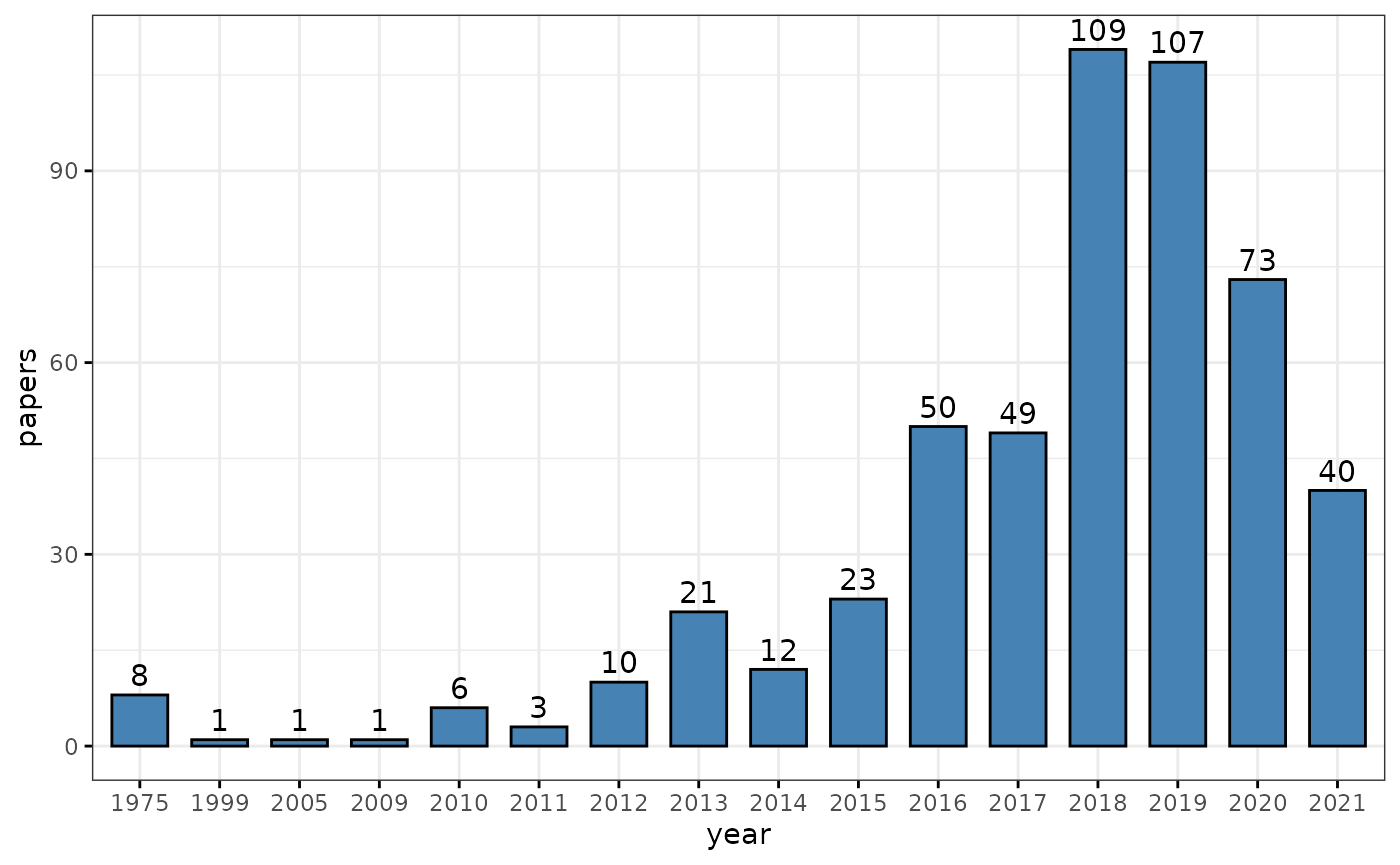
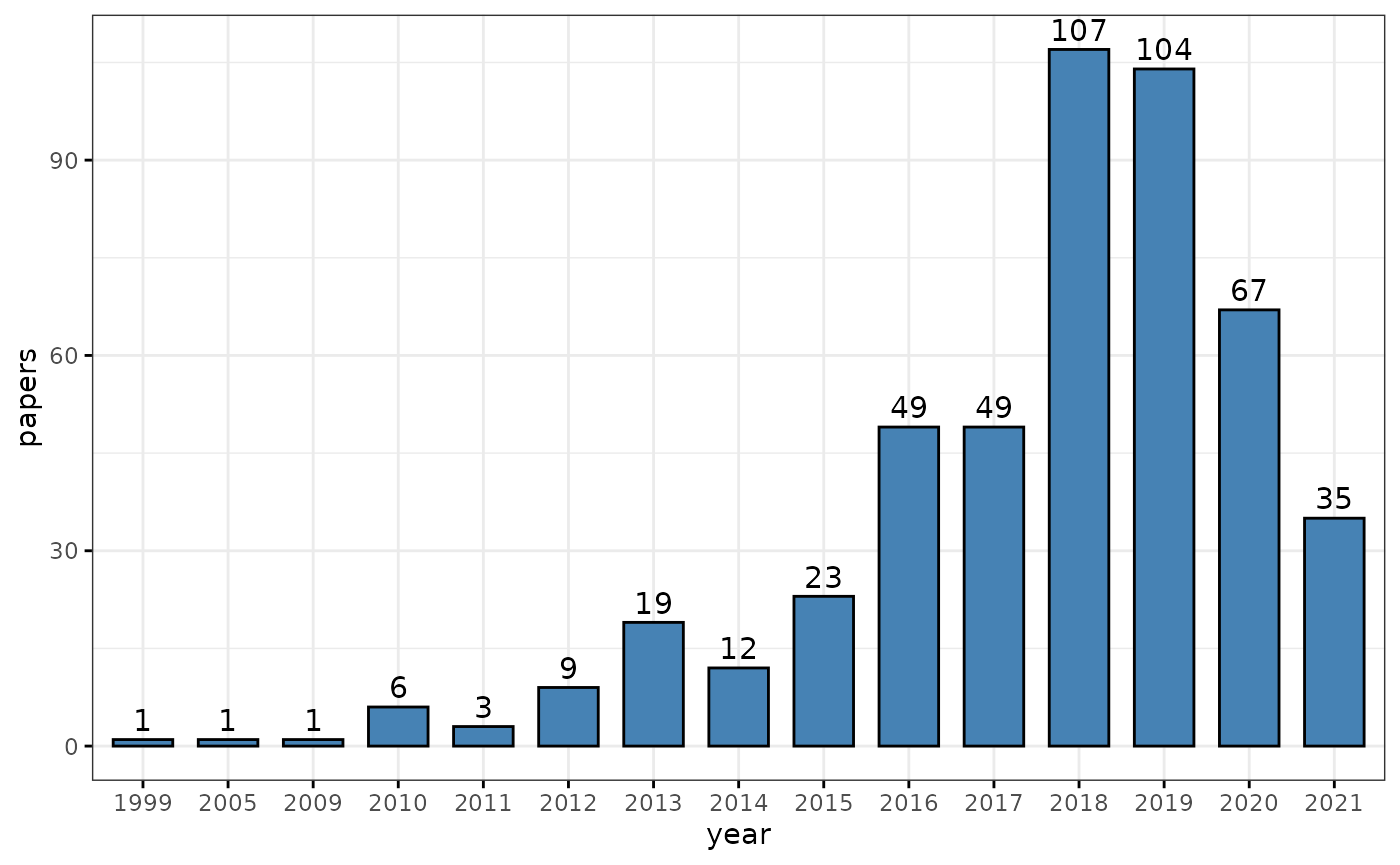
Deploying to gh-pages from  @ d2aab66eb1f398ca9826e9cbe9abbd49b88cd80a 🚀

diff --git a/articles/BugSigDBStats.html b/articles/BugSigDBStats.html
@@ -63,7 +63,7 @@
     <div class="page-header toc-ignore">
       <h1 data-toc-skip></h1>
             
-            <h4 class="date">September 12, 2021</h4>
+            <h4 class="date">September 20, 2021</h4>
       
       <small class="dont-index">Source: <a href="https://github.com/waldronlab/BugSigDBStats/blob/master/vignettes/BugSigDBStats.Rmd"><code>vignettes/BugSigDBStats.Rmd</code></a></small>
       <div class="hidden name"><code>BugSigDBStats.Rmd</code></div>
@@ -86,10 +86,10 @@
 <p>Get bulk export from bugsigdb.org:</p>
 <div class="sourceCode" id="cb2"><pre class="downlit sourceCode r">
 <code class="sourceCode R"><span class="va">full.dat</span> <span class="op">&lt;-</span> <span class="fu">bugsigdbr</span><span class="fu">::</span><span class="fu"><a href="https://rdrr.io/pkg/bugsigdbr/man/importBugSigDB.html">importBugSigDB</a></span><span class="op">(</span><span class="op">)</span></code></pre></div>
-<pre><code>## Using cached version from 2021-09-12 05:06:33</code></pre>
+<pre><code>## Using cached version from 2021-09-20 00:22:23</code></pre>
 <div class="sourceCode" id="cb4"><pre class="downlit sourceCode r">
 <code class="sourceCode R"><span class="fu"><a href="https://rdrr.io/r/base/dim.html">dim</a></span><span class="op">(</span><span class="va">full.dat</span><span class="op">)</span></code></pre></div>
-<pre><code>## [1] 2123   48</code></pre>
+<pre><code>## [1] 1992   48</code></pre>
 <div class="sourceCode" id="cb6"><pre class="downlit sourceCode r">
 <code class="sourceCode R"><span class="fu"><a href="https://rdrr.io/r/base/colnames.html">colnames</a></span><span class="op">(</span><span class="va">full.dat</span><span class="op">)</span></code></pre></div>
 <pre><code>##  [1] "Study"                      "Study design"              
@@ -110,26 +110,31 @@
 ## [31] "Confounders controlled for" "Pielou"                    
 ## [33] "Shannon"                    "Chao1"                     
 ## [35] "Simpson"                    "Inverse Simpson"           
-## [37] "Richness"                   "State"                     
-## [39] "Reviewer"                   "Signature page name"       
-## [41] "Source"                     "Curated date"              
-## [43] "Curator"                    "Revision editor"           
-## [45] "Description"                "Abundance in Group 1"      
-## [47] "MetaPhlAn taxon names"      "NCBI Taxonomy IDs"</code></pre>
+## [37] "Richness"                   "Signature page name"       
+## [39] "Source"                     "Curated date"              
+## [41] "Curator"                    "Revision editor"           
+## [43] "Description"                "Abundance in Group 1"      
+## [45] "MetaPhlAn taxon names"      "NCBI Taxonomy IDs"         
+## [47] "State"                      "Reviewer"</code></pre>
+<p>Stripping illformed entries:</p>
+<div class="sourceCode" id="cb8"><pre class="downlit sourceCode r">
+<code class="sourceCode R"><span class="va">is.study</span> <span class="op">&lt;-</span> <span class="fu"><a href="https://rdrr.io/r/base/grep.html">grepl</a></span><span class="op">(</span><span class="st">"^Study [0-9]+$"</span>, <span class="va">full.dat</span><span class="op">[[</span><span class="st">"Study"</span><span class="op">]</span><span class="op">]</span><span class="op">)</span>
+<span class="va">is.exp</span> <span class="op">&lt;-</span> <span class="fu"><a href="https://rdrr.io/r/base/grep.html">grepl</a></span><span class="op">(</span><span class="st">"^Experiment [0-9]+$"</span>, <span class="va">full.dat</span><span class="op">[[</span><span class="st">"Experiment"</span><span class="op">]</span><span class="op">]</span><span class="op">)</span>
+<span class="va">full.dat</span> <span class="op">&lt;-</span> <span class="va">full.dat</span><span class="op">[</span><span class="va">is.study</span> <span class="op">&amp;</span> <span class="va">is.exp</span>, <span class="op">]</span></code></pre></div>
 </div>
 <div id="curation-output" class="section level1">
 <h1 class="hasAnchor">
 <a href="#curation-output" class="anchor"></a>Curation output</h1>
 <p>Number of papers and signatures curated:</p>
-<div class="sourceCode" id="cb8"><pre class="downlit sourceCode r">
+<div class="sourceCode" id="cb9"><pre class="downlit sourceCode r">
 <code class="sourceCode R"><span class="va">pmids</span> <span class="op">&lt;-</span> <span class="fu"><a href="https://rdrr.io/r/base/unique.html">unique</a></span><span class="op">(</span><span class="va">full.dat</span><span class="op">[</span>,<span class="st">"PMID"</span><span class="op">]</span><span class="op">)</span>
 <span class="fu"><a href="https://rdrr.io/r/base/length.html">length</a></span><span class="op">(</span><span class="va">pmids</span><span class="op">)</span></code></pre></div>
-<pre><code>## [1] 522</code></pre>
-<div class="sourceCode" id="cb10"><pre class="downlit sourceCode r">
+<pre><code>## [1] 494</code></pre>
+<div class="sourceCode" id="cb11"><pre class="downlit sourceCode r">
 <code class="sourceCode R"><span class="fu"><a href="https://rdrr.io/r/base/nrow.html">nrow</a></span><span class="op">(</span><span class="va">full.dat</span><span class="op">)</span></code></pre></div>
-<pre><code>## [1] 2123</code></pre>
+<pre><code>## [1] 1992</code></pre>
 <p>Publication date of the curated papers:</p>
-<div class="sourceCode" id="cb12"><pre class="downlit sourceCode r">
+<div class="sourceCode" id="cb13"><pre class="downlit sourceCode r">
 <code class="sourceCode R"><span class="va">pmids</span> <span class="op">&lt;-</span> <span class="va">pmids</span><span class="op">[</span><span class="op">!</span><span class="fu"><a href="https://rdrr.io/r/base/NA.html">is.na</a></span><span class="op">(</span><span class="va">pmids</span><span class="op">)</span><span class="op">]</span>
 <span class="va">pubyear1</span> <span class="op">&lt;-</span> <span class="fu"><a href="../reference/pmid2pubyear.html">pmid2pubyear</a></span><span class="op">(</span><span class="va">pmids</span><span class="op">[</span><span class="fl">1</span><span class="op">:</span><span class="fl">361</span><span class="op">]</span><span class="op">)</span>
 <span class="va">pubyear2</span> <span class="op">&lt;-</span> <span class="fu"><a href="../reference/pmid2pubyear.html">pmid2pubyear</a></span><span class="op">(</span><span class="va">pmids</span><span class="op">[</span><span class="fl">362</span><span class="op">:</span><span class="fu"><a href="https://rdrr.io/r/base/length.html">length</a></span><span class="op">(</span><span class="va">pmids</span><span class="op">)</span><span class="op">]</span><span class="op">)</span>
@@ -142,56 +147,56 @@
 ## [4,] "27625705" "2016" 
 ## [5,] "23071781" "2012" 
 ## [6,] "28467925" "2017"</code></pre>
-<div class="sourceCode" id="cb14"><pre class="downlit sourceCode r">
+<div class="sourceCode" id="cb15"><pre class="downlit sourceCode r">
 <code class="sourceCode R"><span class="va">tab</span> <span class="op">&lt;-</span> <span class="fu"><a href="https://rdrr.io/r/base/table.html">table</a></span><span class="op">(</span><span class="va">pubyear</span><span class="op">)</span>
 <span class="va">tab</span> <span class="op">&lt;-</span> <span class="va">tab</span><span class="op">[</span><span class="op">-</span><span class="fu"><a href="https://rdrr.io/r/base/length.html">length</a></span><span class="op">(</span><span class="va">tab</span><span class="op">)</span><span class="op">]</span>
 <span class="va">tab</span> <span class="op">&lt;-</span> <span class="va">tab</span><span class="op">[</span><span class="fu"><a href="https://rdrr.io/r/base/order.html">order</a></span><span class="op">(</span><span class="fu"><a href="https://rdrr.io/r/base/integer.html">as.integer</a></span><span class="op">(</span><span class="fu"><a href="https://rdrr.io/r/base/names.html">names</a></span><span class="op">(</span><span class="va">tab</span><span class="op">)</span><span class="op">)</span><span class="op">)</span><span class="op">]</span>
 <span class="va">df</span> <span class="op">&lt;-</span> <span class="fu"><a href="https://rdrr.io/r/base/data.frame.html">data.frame</a></span><span class="op">(</span>year <span class="op">=</span> <span class="fu"><a href="https://rdrr.io/r/base/names.html">names</a></span><span class="op">(</span><span class="va">tab</span><span class="op">)</span>, papers <span class="op">=</span> <span class="fu"><a href="https://rdrr.io/r/base/integer.html">as.integer</a></span><span class="op">(</span><span class="va">tab</span><span class="op">)</span><span class="op">)</span>
-<span class="fu"><a href="https://rdrr.io/pkg/ggpubr/man/ggbarplot.html">ggbarplot</a></span><span class="op">(</span><span class="va">df</span>, x <span class="op">=</span> <span class="st">"year"</span>, y <span class="op">=</span> <span class="st">"papers"</span>, 
+<span class="fu"><a href="https://rpkgs.datanovia.com/ggpubr/reference/ggbarplot.html">ggbarplot</a></span><span class="op">(</span><span class="va">df</span>, x <span class="op">=</span> <span class="st">"year"</span>, y <span class="op">=</span> <span class="st">"papers"</span>, 
           label <span class="op">=</span> <span class="cn">TRUE</span>, fill <span class="op">=</span> <span class="st">"steelblue"</span>,
           ggtheme <span class="op">=</span> <span class="fu">theme_bw</span><span class="op">(</span><span class="op">)</span><span class="op">)</span></code></pre></div>
 <p><img src="BugSigDBStats_files/figure-html/pubDate2-1.png" width="700"></p>
 <p>Stripping empty signatures:</p>
-<div class="sourceCode" id="cb15"><pre class="downlit sourceCode r">
-<code class="sourceCode R"><span class="co"># contains empty UP / DOWN rows</span>
-<span class="co"># more realistic estimation of number of signatures curated</span>
-<span class="va">dat</span> <span class="op">&lt;-</span> <span class="fu"><a href="../reference/stripEmptySignatures.html">stripEmptySignatures</a></span><span class="op">(</span><span class="va">full.dat</span><span class="op">)</span>
+<div class="sourceCode" id="cb16"><pre class="downlit sourceCode r">
+<code class="sourceCode R"><span class="va">ind1</span> <span class="op">&lt;-</span> <span class="fu"><a href="https://rdrr.io/r/base/lengths.html">lengths</a></span><span class="op">(</span><span class="va">full.dat</span><span class="op">[[</span><span class="st">"MetaPhlAn taxon names"</span><span class="op">]</span><span class="op">]</span><span class="op">)</span> <span class="op">&gt;</span> <span class="fl">0</span>
+<span class="va">ind2</span> <span class="op">&lt;-</span> <span class="fu"><a href="https://rdrr.io/r/base/lengths.html">lengths</a></span><span class="op">(</span><span class="va">full.dat</span><span class="op">[[</span><span class="st">"NCBI Taxonomy IDs"</span><span class="op">]</span><span class="op">]</span><span class="op">)</span> <span class="op">&gt;</span> <span class="fl">0</span>
+<span class="va">dat</span> <span class="op">&lt;-</span> <span class="va">full.dat</span><span class="op">[</span><span class="va">ind1</span> <span class="op">&amp;</span> <span class="va">ind2</span>,<span class="op">]</span>
 <span class="fu"><a href="https://rdrr.io/r/base/nrow.html">nrow</a></span><span class="op">(</span><span class="va">dat</span><span class="op">)</span></code></pre></div>
-<pre><code>## [1] 1970</code></pre>
+<pre><code>## [1] 1992</code></pre>
 <p>Papers containing only empty UP and DOWN signatures (under curation?):</p>
-<div class="sourceCode" id="cb17"><pre class="downlit sourceCode r">
+<div class="sourceCode" id="cb18"><pre class="downlit sourceCode r">
 <code class="sourceCode R"><span class="fu"><a href="https://rdrr.io/r/base/sets.html">setdiff</a></span><span class="op">(</span><span class="va">pmids</span>, <span class="fu"><a href="https://rdrr.io/r/base/unique.html">unique</a></span><span class="op">(</span><span class="va">dat</span><span class="op">[</span>,<span class="st">"PMID"</span><span class="op">]</span><span class="op">)</span><span class="op">)</span></code></pre></div>
-<pre><code>##  [1] 32295867 32937864 32415070 25784074       47       20        7 32728349
-##  [9] 33903709 33851179 33833065       48       24       37       14 33603076
-## [17] 33663411       30 19903265 31917273 22986438 22356587 30714619 32978483
-## [25] 29462324 31887116 29617710</code></pre>
+<pre><code>## numeric(0)</code></pre>
 <p>Progress over time:</p>
-<div class="sourceCode" id="cb19"><pre class="downlit sourceCode r">
+<div class="sourceCode" id="cb20"><pre class="downlit sourceCode r">
 <code class="sourceCode R"><span class="va">dat</span><span class="op">[</span>,<span class="st">"Curated date"</span><span class="op">]</span> <span class="op">&lt;-</span> <span class="fu"><a href="https://rdrr.io/r/base/character.html">as.character</a></span><span class="op">(</span><span class="fu">lubridate</span><span class="fu">::</span><span class="fu"><a href="http://lubridate.tidyverse.org/reference/ymd.html">dmy</a></span><span class="op">(</span><span class="va">dat</span><span class="op">[</span>,<span class="st">"Curated date"</span><span class="op">]</span><span class="op">)</span><span class="op">)</span>
 <span class="fu"><a href="../reference/plotProgressOverTime.html">plotProgressOverTime</a></span><span class="op">(</span><span class="va">dat</span><span class="op">)</span></code></pre></div>
-<p><img src="BugSigDBStats_files/figure-html/unnamed-chunk-3-1.png" width="960"></p>
-<div class="sourceCode" id="cb20"><pre class="downlit sourceCode r">
-<code class="sourceCode R"><span class="fu"><a href="../reference/plotProgressOverTime.html">plotProgressOverTime</a></span><span class="op">(</span><span class="va">dat</span>, diff <span class="op">=</span> <span class="cn">TRUE</span><span class="op">)</span></code></pre></div>
-<p><img src="BugSigDBStats_files/figure-html/unnamed-chunk-3-2.png" width="960"></p>
-<p>Stratified by curator:</p>
+<p><img src="BugSigDBStats_files/figure-html/unnamed-chunk-4-1.png" width="960"></p>
 <div class="sourceCode" id="cb21"><pre class="downlit sourceCode r">
+<code class="sourceCode R"><span class="fu"><a href="../reference/plotProgressOverTime.html">plotProgressOverTime</a></span><span class="op">(</span><span class="va">dat</span>, diff <span class="op">=</span> <span class="cn">TRUE</span><span class="op">)</span></code></pre></div>
+<p><img src="BugSigDBStats_files/figure-html/unnamed-chunk-4-2.png" width="960"></p>
+<p>Stratified by curator:</p>
+<div class="sourceCode" id="cb22"><pre class="downlit sourceCode r">
 <code class="sourceCode R"><span class="va">npc</span> <span class="op">&lt;-</span> <span class="fu"><a href="../reference/stratifyByCurator.html">stratifyByCurator</a></span><span class="op">(</span><span class="va">dat</span><span class="op">)</span>
 <span class="fu"><a href="../reference/plotCuratorStats.html">plotCuratorStats</a></span><span class="op">(</span><span class="va">dat</span>, <span class="va">npc</span><span class="op">)</span></code></pre></div>
 <p><img src="BugSigDBStats_files/figure-html/curatorOutput-1.png" width="960"></p>
-<p>Number of revised signatures:</p>
-<div class="sourceCode" id="cb22"><pre class="downlit sourceCode r">
+<p>Number of complete and revised signatures:</p>
+<div class="sourceCode" id="cb23"><pre class="downlit sourceCode r">
+<code class="sourceCode R"><span class="fu"><a href="https://rdrr.io/r/base/table.html">table</a></span><span class="op">(</span><span class="va">df</span><span class="op">[[</span><span class="st">"State"</span><span class="op">]</span><span class="op">]</span><span class="op">)</span></code></pre></div>
+<pre><code>## &lt; table of extent 0 &gt;</code></pre>
+<div class="sourceCode" id="cb25"><pre class="downlit sourceCode r">
 <code class="sourceCode R"><span class="fu"><a href="https://rdrr.io/r/base/table.html">table</a></span><span class="op">(</span><span class="va">dat</span><span class="op">[</span>,<span class="st">"Revision editor"</span><span class="op">]</span><span class="op">)</span></code></pre></div>
 <pre><code>## 
 ##                                      Chloe 
-##                                          2 
+##                                          1 
 ##                         Chloe,Claregrieve1 
 ##                                          2 
 ##                               Claregrieve1 
-##                                        123 
+##                                        113 
 ##                        Claregrieve1,Fatima 
 ##                                          5 
 ##                           Cynthia Anderson 
-##                                         33 
+##                                         21 
 ## Cynthia Anderson,LGeistlinger,WikiWorks743 
 ##                                          2 
 ##     Cynthia Anderson,Lwaldron,WikiWorks743 
@@ -215,50 +220,87 @@
 ##                             Fatima,Yu Wang 
 ##                                          6 
 ##                                       Gina 
-##                                          3 
+##                                          4 
 ##                                Itslanapark 
-##                                         20 
+##                                         21 
 ##                                  Kwekuamoo 
-##                                         23 
+##                                         37 
 ##                     Kwekuamoo,WikiWorks743 
 ##                                          1 
 ##                              Lorakasselman 
-##                                          1 
+##                                          2 
 ##                                   Lwaldron 
 ##                                          7 
 ##                     Lwaldron,Madhubani Dey 
 ##                                          1 
 ##                      Lwaldron,WikiWorks743 
-##                                         27 
+##                                         29 
 ##                              Madhubani Dey 
 ##                                         44 
 ##                                    Manuela 
 ##                                         11 
 ##                                Samara.Khan 
-##                                         37 
+##                                         43 
 ##                                     Tislam 
-##                                         17 
+##                                         12 
 ##                                  Valentina 
 ##                                          2 
 ##        WikiWorks,WikiWorks743,WikiWorks753 
 ##                                          1 
 ##                               WikiWorks743 
-##                                       1531 
+##                                       1556 
 ##                  WikiWorks743,WikiWorks753 
 ##                                          1</code></pre>
-<div id="distances-between-signatures" class="section level2">
+</div>
+<div id="signature-stats" class="section level1">
+<h1 class="hasAnchor">
+<a href="#signature-stats" class="anchor"></a>Signature stats</h1>
+<div class="sourceCode" id="cb27"><pre class="downlit sourceCode r">
+<code class="sourceCode R"><span class="va">sigs</span> <span class="op">&lt;-</span> <span class="fu">bugsigdbr</span><span class="fu">::</span><span class="fu"><a href="https://rdrr.io/pkg/bugsigdbr/man/getSignatures.html">getSignatures</a></span><span class="op">(</span><span class="va">dat</span>, tax.id.type <span class="op">=</span> <span class="st">"metaphlan"</span><span class="op">)</span></code></pre></div>
+<div id="unique-microbes" class="section level2">
 <h2 class="hasAnchor">
-<a href="#distances-between-signatures" class="anchor"></a>Distances between signatures</h2>
+<a href="#unique-microbes" class="anchor"></a>Unique microbes</h2>
+<p>Number unique microbes contained in the signatures:</p>
+<div class="sourceCode" id="cb28"><pre class="downlit sourceCode r">
+<code class="sourceCode R"><span class="op">(</span><span class="va">nuniq</span> <span class="op">&lt;-</span> <span class="fu"><a href="https://rdrr.io/r/base/length.html">length</a></span><span class="op">(</span><span class="fu"><a href="https://rdrr.io/r/base/unique.html">unique</a></span><span class="op">(</span><span class="fu"><a href="https://rdrr.io/r/base/unlist.html">unlist</a></span><span class="op">(</span><span class="va">sigs</span><span class="op">)</span><span class="op">)</span><span class="op">)</span><span class="op">)</span></code></pre></div>
+<pre><code>## [1] 1776</code></pre>
+<p>Development of unique microbes captured over time:</p>
+<div class="sourceCode" id="cb30"><pre class="downlit sourceCode r">
+<code class="sourceCode R"><span class="fu"><a href="../reference/plotUniqueMicrobesOverTime.html">plotUniqueMicrobesOverTime</a></span><span class="op">(</span><span class="va">dat</span><span class="op">)</span></code></pre></div>
+<p><img src="BugSigDBStats_files/figure-html/unnamed-chunk-7-1.png" width="700"></p>
+</div>
+<div id="microbe-set-size-distribution" class="section level2">
+<h2 class="hasAnchor">
+<a href="#microbe-set-size-distribution" class="anchor"></a>Microbe set size distribution</h2>
+<div class="sourceCode" id="cb31"><pre class="downlit sourceCode r">
+<code class="sourceCode R"><span class="fu"><a href="https://rdrr.io/r/base/summary.html">summary</a></span><span class="op">(</span><span class="fu"><a href="https://rdrr.io/r/base/lengths.html">lengths</a></span><span class="op">(</span><span class="va">sigs</span><span class="op">)</span><span class="op">)</span></code></pre></div>
+<pre><code>##    Min. 1st Qu.  Median    Mean 3rd Qu.    Max. 
+##   1.000   2.000   4.000   6.812   8.250 100.000</code></pre>
+<div class="sourceCode" id="cb33"><pre class="downlit sourceCode r">
+<code class="sourceCode R"><span class="fu"><a href="https://rpkgs.datanovia.com/ggpubr/reference/gghistogram.html">gghistogram</a></span><span class="op">(</span><span class="fu"><a href="https://rdrr.io/r/base/lengths.html">lengths</a></span><span class="op">(</span><span class="va">sigs</span><span class="op">)</span>, bins <span class="op">=</span> <span class="fl">30</span>, ylab <span class="op">=</span> <span class="st">"number of signatures"</span>,
+    xlab <span class="op">=</span> <span class="st">"signature size"</span>, fill <span class="op">=</span> <span class="st">"#00AFBB"</span>, ggtheme <span class="op">=</span> <span class="fu">theme_bw</span><span class="op">(</span><span class="op">)</span><span class="op">)</span></code></pre></div>
+<p><img src="BugSigDBStats_files/figure-html/setSize-1.png" width="700"></p>
+<div class="sourceCode" id="cb34"><pre class="downlit sourceCode r">
+<code class="sourceCode R"><span class="fu"><a href="https://rdrr.io/r/base/sum.html">sum</a></span><span class="op">(</span><span class="fu"><a href="https://rdrr.io/r/base/lengths.html">lengths</a></span><span class="op">(</span><span class="va">sigs</span><span class="op">)</span> <span class="op">&gt;</span> <span class="fl">4</span><span class="op">)</span></code></pre></div>
+<pre><code>## [1] 889</code></pre>
+</div>
+<div id="signature-similarity" class="section level2">
+<h2 class="hasAnchor">
+<a href="#signature-similarity" class="anchor"></a>Signature similarity</h2>
+<div id="jaccard-index" class="section level3">
+<h3 class="hasAnchor">
+<a href="#jaccard-index" class="anchor"></a>Jaccard index</h3>
 <p>The <code>calcPairwiseOverlaps</code> function works quickly on all of bugsigdb currently, but <code>makeDist</code> is slow and surely could be improved for efficiency. For now, use only nasal samples:</p>
-<div class="sourceCode" id="cb24"><pre class="downlit sourceCode r">
-<code class="sourceCode R"><span class="va">dat_subset</span> <span class="op">&lt;-</span> <span class="va">dat</span><span class="op">[</span><span class="va">dat</span><span class="op">$</span><span class="va">`Body site`</span> <span class="op">%in%</span> <span class="st">"nasal cavity"</span>, <span class="op">]</span>
-<span class="va">sigs_subset</span> <span class="op">&lt;-</span> <span class="fu"><a href="https://rdrr.io/pkg/bugsigdbr/man/getSignatures.html">getSignatures</a></span><span class="op">(</span><span class="va">dat_subset</span><span class="op">)</span>
+<div class="sourceCode" id="cb36"><pre class="downlit sourceCode r">
+<code class="sourceCode R"><span class="va">dat_subset</span> <span class="op">&lt;-</span> <span class="fu"><a href="https://rdrr.io/r/base/subset.html">subset</a></span><span class="op">(</span><span class="va">dat</span>, <span class="va">`Body site`</span> <span class="op">==</span> <span class="st">"nasal cavity"</span><span class="op">)</span>
+<span class="va">sigs_subset</span> <span class="op">&lt;-</span> <span class="fu">bugsigdbr</span><span class="fu">::</span><span class="fu"><a href="https://rdrr.io/pkg/bugsigdbr/man/getSignatures.html">getSignatures</a></span><span class="op">(</span><span class="va">dat_subset</span><span class="op">)</span>
 <span class="va">paircomp</span> <span class="op">&lt;-</span> <span class="fu"><a href="../reference/calcPairwiseOverlaps.html">calcPairwiseOverlaps</a></span><span class="op">(</span><span class="va">sigs_subset</span><span class="op">)</span>
 <span class="va">jdist</span> <span class="op">&lt;-</span> <span class="fu"><a href="../reference/makeDist.html">makeDist</a></span><span class="op">(</span><span class="va">paircomp</span>, <span class="st">"jaccard"</span><span class="op">)</span></code></pre></div>
 <p>Create a dendrogram of Jaccard dissimilarities (1.0 has no overlap, 0.0 are identical signatures).</p>
-<div class="sourceCode" id="cb25"><pre class="downlit sourceCode r">
+<div class="sourceCode" id="cb37"><pre class="downlit sourceCode r">
 <code class="sourceCode R"><span class="fu"><a href="https://rdrr.io/r/graphics/plot.default.html">plot</a></span><span class="op">(</span><span class="fu"><a href="https://rdrr.io/r/stats/hclust.html">hclust</a></span><span class="op">(</span><span class="va">jdist</span><span class="op">)</span><span class="op">)</span></code></pre></div>
-<p><img src="BugSigDBStats_files/figure-html/unnamed-chunk-6-1.png" width="768"></p>
+<p><img src="BugSigDBStats_files/figure-html/unnamed-chunk-9-1.png" width="768"></p>
+</div>
 </div>
 </div>
   </div>

diff --git a/reference/plotUniqueMicrobesOverTime.html b/reference/plotUniqueMicrobesOverTime.html
@@ -6,7 +6,7 @@
 <meta http-equiv="X-UA-Compatible" content="IE=edge">
 <meta name="viewport" content="width=device-width, initial-scale=1.0">
 
-<title>Function reference • BugSigDB Stats and Analysis</title>
+<title>Plot curation output for each curator — plotUniqueMicrobesOverTime • BugSigDB Stats and Analysis</title>
 
 
 <!-- jquery -->
@@ -39,7 +39,8 @@
 
 
 
-<meta property="og:title" content="Function reference" />
+<meta property="og:title" content="Plot curation output for each curator — plotUniqueMicrobesOverTime" />
+<meta property="og:description" content="Plot curation output for each curator" />
 
 
 
@@ -58,7 +59,7 @@
   </head>
 
   <body data-spy="scroll" data-target="#toc">
-    <div class="container template-reference-index">
+    <div class="container template-reference-topic">
       <header>
       <div class="navbar navbar-default navbar-fixed-top" role="navigation">
   <div class="container">
@@ -99,97 +100,38 @@
       </header>
 
 <div class="row">
-  <div class="contents col-md-9">
+  <div class="col-md-9 contents">
     <div class="page-header">
-      <h1>Reference</h1>
+    <h1>Plot curation output for each curator</h1>
+    <small class="dont-index">Source: <a href='https://github.com/waldronlab/BugSigDBStats/blob/master/R/curation_viz.R'><code>R/curation_viz.R</code></a></small>
+    <div class="hidden name"><code>plotUniqueMicrobesOverTime.Rd</code></div>
     </div>
 
-    <table class="ref-index">
+    <div class="ref-description">
+    <p>Plot curation output for each curator</p>
+    </div>
 
-    <colgroup>
-      
-      <col class="alias" />
-      <col class="title" />
-    </colgroup>
+    <pre class="usage"><span class='fu'>plotUniqueMicrobesOverTime</span><span class='op'>(</span><span class='va'>dat</span>, date.col <span class='op'>=</span> <span class='st'>"Curated date"</span><span class='op'>)</span></pre>
 
-    <tbody>
-      <tr>
-        <th colspan="2">
-          <h2 id="section-all-functions" class="hasAnchor"><a href="#section-all-functions" class="anchor"></a>All functions</h2>
-          <p class="section-desc"></p>
-        </th>
-      </tr>
-      
-      
-    </tbody><tbody>
-      
-      
-      <tr>
-        
-        <td>
-          <p><code><a href="calcPairwiseOverlaps.html">calcPairwiseOverlaps()</a></code> </p>
-        </td>
-        <td><p>Calculate pairwise overlaps between all signatures</p></td>
-      </tr><tr>
-        
-        <td>
-          <p><code><a href="makeDist.html">makeDist()</a></code> </p>
-        </td>
-        <td><p>Title Create a Jaccard or overlap dissimilarity matrix from the
-output of calcPairwiseOverlaps</p></td>
-      </tr><tr>
-        
-        <td>
-          <p><code><a href="paperStat.html">paperStat()</a></code> </p>
-        </td>
-        <td><p>Paper stats</p></td>
-      </tr><tr>
-        
-        <td>
-          <p><code><a href="plotCuratorStats.html">plotCuratorStats()</a></code> </p>
-        </td>
-        <td><p>Plot curation output for each curator</p></td>
-      </tr><tr>
-        
-        <td>
-          <p><code><a href="plotProgressOverTime.html">plotProgressOverTime()</a></code> </p>
-        </td>
-        <td><p>Plot curation output as a function of time</p></td>
-      </tr><tr>
-        
-        <td>
-          <p><code><a href="plotUniqueMicrobesOverTime.html">plotUniqueMicrobesOverTime()</a></code> </p>
-        </td>
-        <td><p>Plot curation output for each curator</p></td>
-      </tr><tr>
-        
-        <td>
-          <p><code><a href="pmid2pubyear.html">pmid2pubyear()</a></code> </p>
-        </td>
-        <td><p>Get the publication year for a PMID</p></td>
-      </tr><tr>
-        
-        <td>
-          <p><code><a href="sigStat.html">sigStat()</a></code> </p>
-        </td>
-        <td><p>Signature stats</p></td>
-      </tr><tr>
-        
-        <td>
-          <p><code><a href="stratifyByCurator.html">stratifyByCurator()</a></code> </p>
-        </td>
-        <td><p>Stratify curation output by curator</p></td>
-      </tr><tr>
-        
-        <td>
-          <p><code><a href="stripEmptySignatures.html">stripEmptySignatures()</a></code> </p>
-        </td>
-        <td><p>Remove entries that do not contain signatures</p></td>
-      </tr>
-    </tbody>
+    <h2 class="hasAnchor" id="arguments"><a class="anchor" href="#arguments"></a>Arguments</h2>
+    <table class="ref-arguments">
+    <colgroup><col class="name" /><col class="desc" /></colgroup>
+    <tr>
+      <th>dat</th>
+      <td><p>a <code>data.frame</code> storing BugSigDB data.</p></td>
+    </tr>
+    <tr>
+      <th>date.col</th>
+      <td><p>character. A column of <code>dat</code> that contain the curation date
+in dmy format.</p></td>
+    </tr>
     </table>
-  </div>
 
+    <h2 class="hasAnchor" id="value"><a class="anchor" href="#value"></a>Value</h2>
+
+    <p>None. Plots to a graphics device.</p>
+
+  </div>
   <div class="col-md-3 hidden-xs hidden-sm" id="pkgdown-sidebar">
     <nav id="toc" data-toggle="toc" class="sticky-top">
       <h2 data-toc-skip>Contents</h2>
